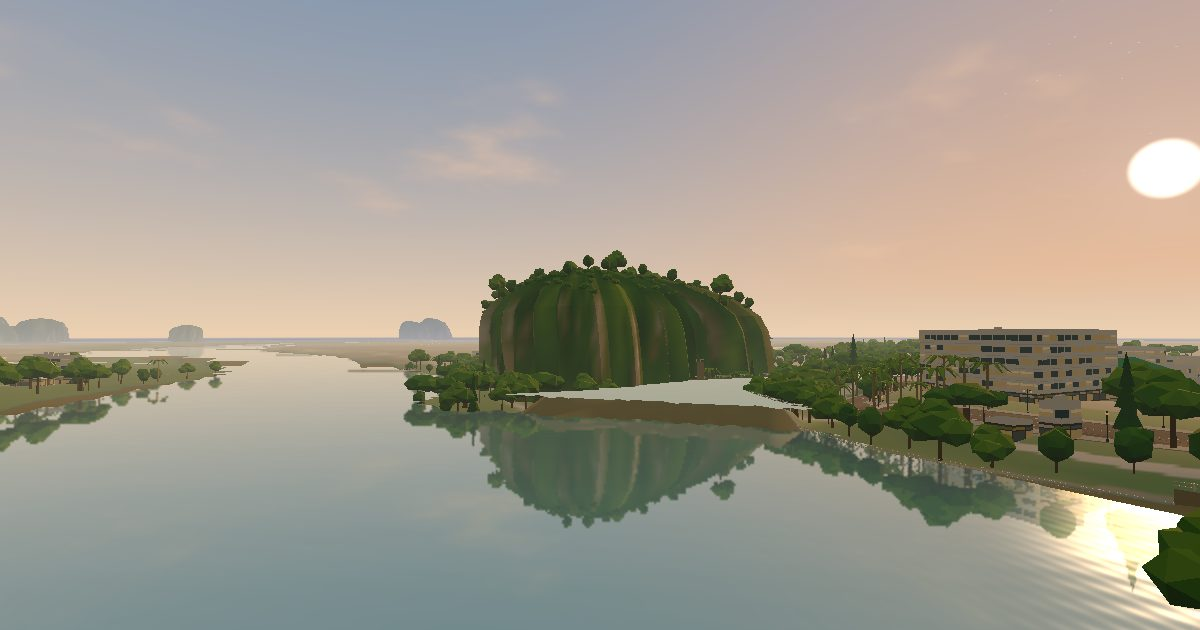
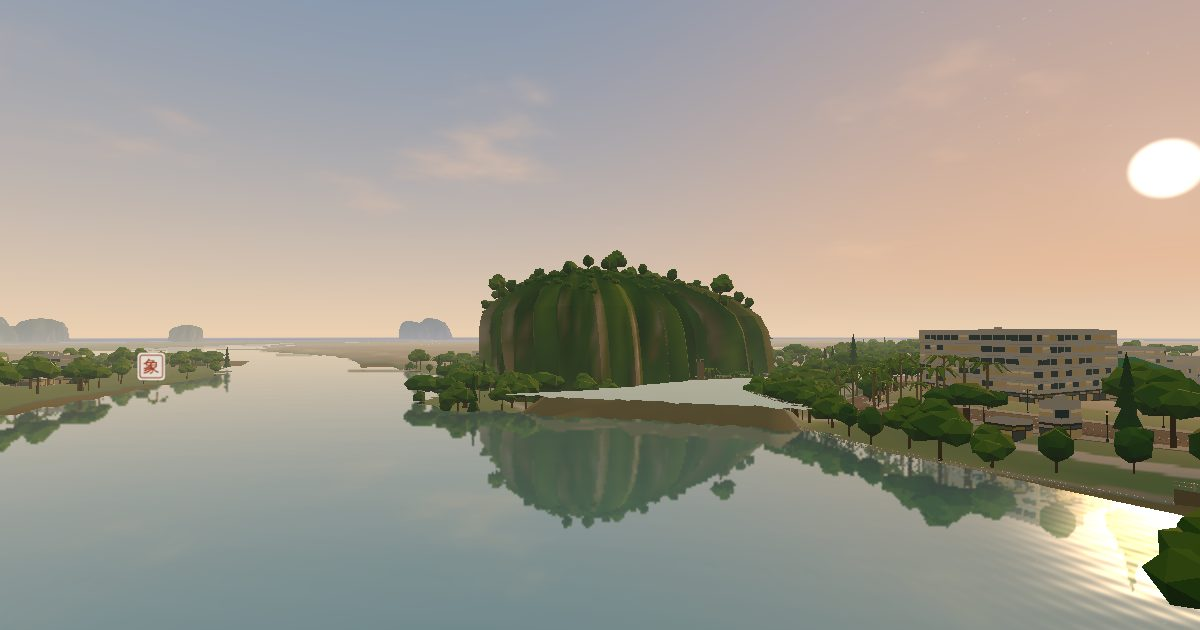
M5b: hide about button in photo mode, hide M4 HUD in og capture, regenerate og.jpg

Changed region(s): [[0.8942, 0.8444, 1.0, 1.0], [0.0, 0.5429, 0.2158, 0.6333]]

diff --git a/web/index.html b/web/index.html
@@ -40,7 +40,7 @@ output,footer,.hint{position:fixed;left:10px;background:rgba(28,44,42,.42);color
 .sky-ui button{font-family:inherit;font-size:13px;color:#f4efe2;background:none;border:0;border-radius:11px;width:26px;height:24px;padding:0;cursor:pointer;opacity:.72;transition:background .15s,opacity .15s;-webkit-tap-highlight-color:transparent}
 .sky-ui button:hover{opacity:1}.sky-ui button.on{background:rgba(169,80,60,.62);opacity:1}.sky-ui .sky-flow{font-size:10px;width:24px;border-left:1px solid rgba(244,239,226,.25);border-radius:0 11px 11px 0}
 .about-mask{position:fixed;inset:0;z-index:40;display:grid;place-items:center;padding:max(16px,env(safe-area-inset-top)) 16px max(16px,env(safe-area-inset-bottom));background:rgba(16,24,24,.42);backdrop-filter:blur(4px)}
-.about-mask[hidden]{display:none!important}
+.about-mask[hidden],body[data-photo] .btn-about{display:none!important}
 .about-panel{width:min(640px,100%);max-height:min(82vh,720px);overflow:auto;border-radius:18px;background:rgba(28,44,42,.78);color:#f4efe2;border:1px solid rgba(244,239,226,.28);backdrop-filter:blur(10px);-webkit-backdrop-filter:blur(10px);box-shadow:0 18px 48px rgba(12,20,20,.28)}
 .about-panel header{display:flex;align-items:center;justify-content:space-between;gap:12px;padding:14px 16px 8px;position:sticky;top:0;background:rgba(28,44,42,.92);backdrop-filter:blur(8px)}
 .about-panel h2{margin:0;font-size:18px;font-weight:500;letter-spacing:.18em}
